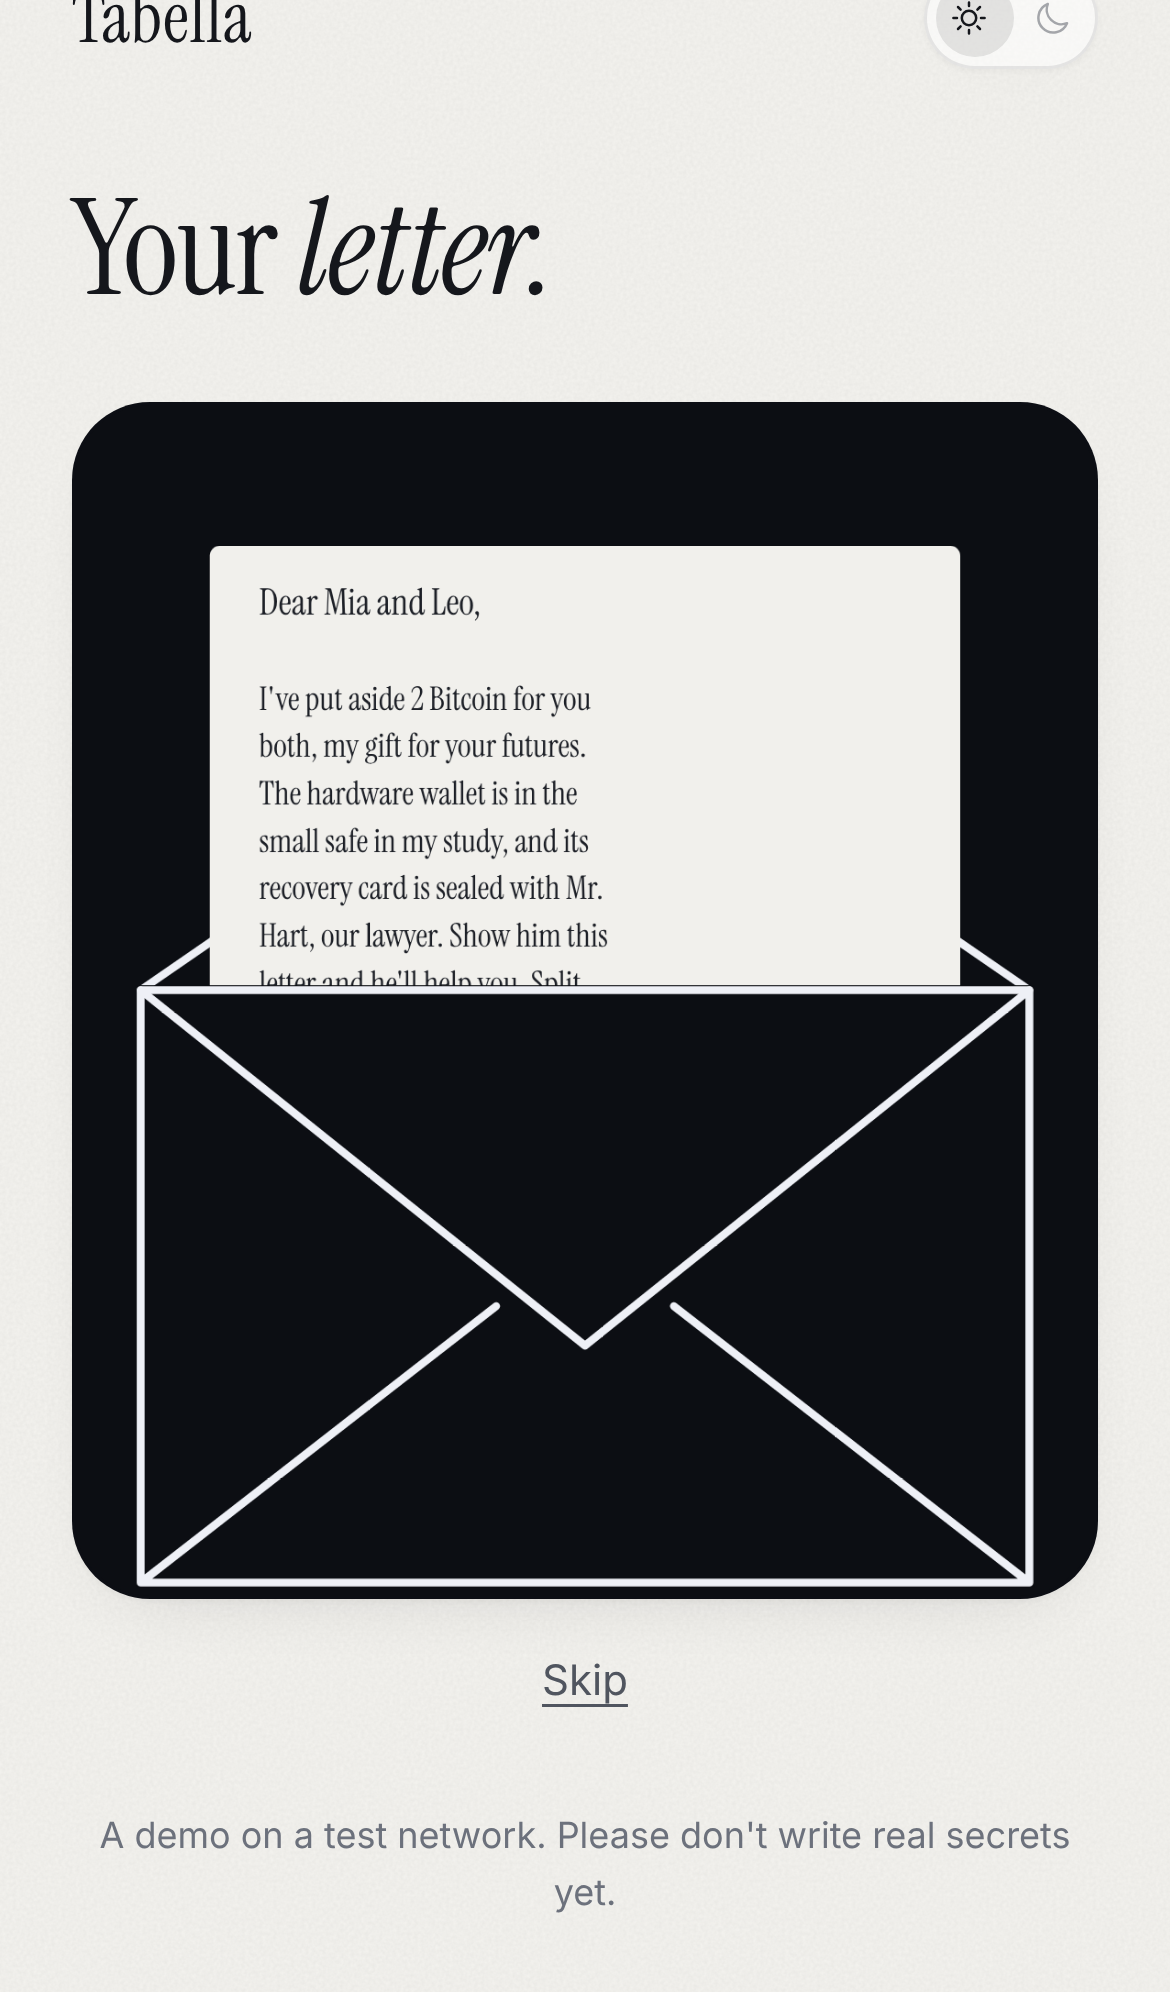
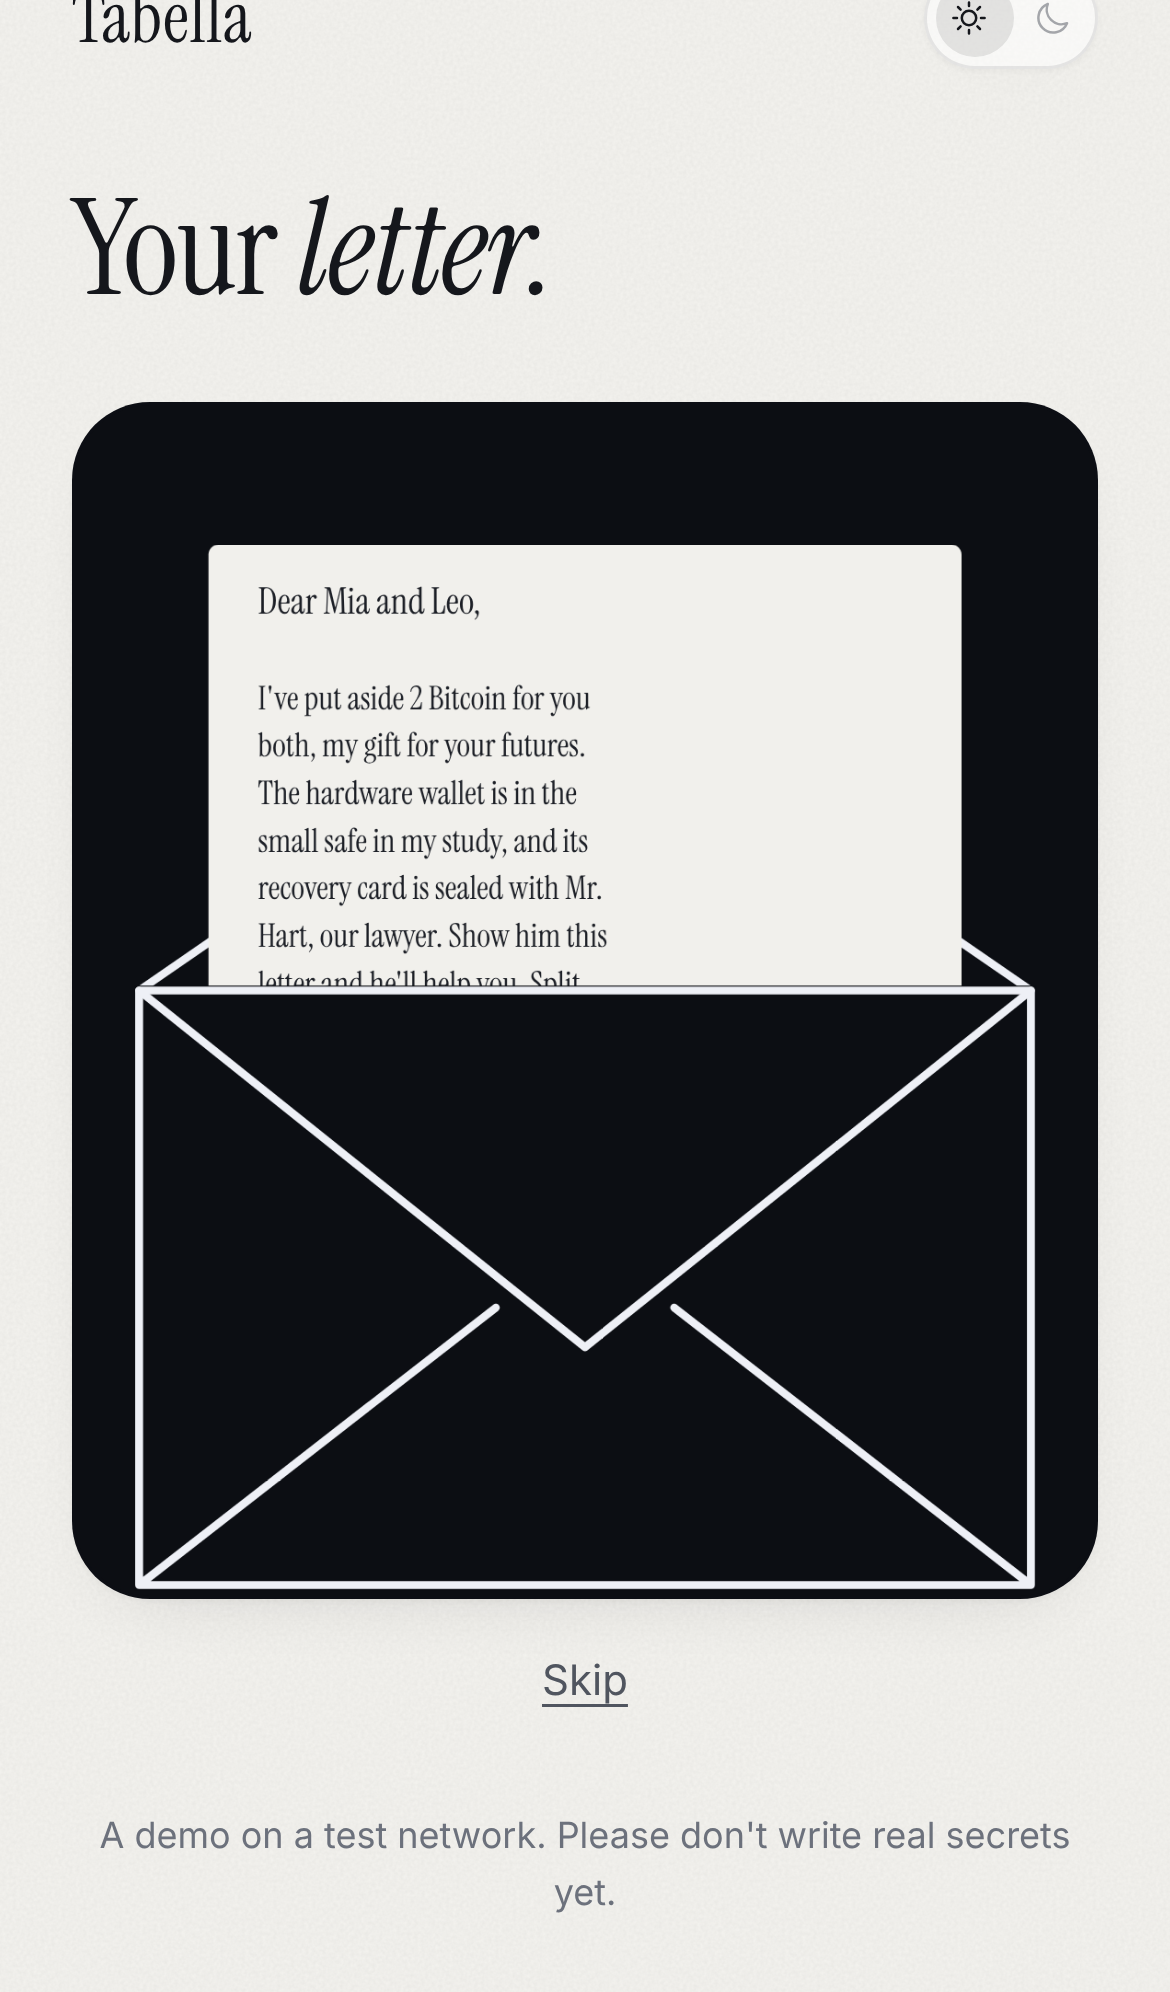
Scenes: no stray sheet under the sealed envelope, the whole letter is readable in the final zoom
Claude-Session: https://claude.ai/code/session_01TE8sAU6P4AZLuUHi32mejA

diff --git a/app/src/landing/stories.tsx b/app/src/landing/stories.tsx
@@ -121,26 +121,13 @@ function Calendar() {
 }
 
 /** An envelope: the letter slides in, the flap closes, the seal is pressed. */
-function SealScene({ bare = false }: { bare?: boolean }) {
+function SealScene() {
   return (
     <g transform="translate(180 230)">
       {/* the letter sliding down into the envelope (it ends hidden behind the front) */}
       <A a="letter-in" d={0.3} dur={1.1} ease="ease-in-out" fill="backwards">
-        <rect className="letter-sheet" x="104" y="100" width="152" height="134" rx="2" />
-        {!bare && (
-          <>
-        <text className="hand" x="114" y="114.0" fontSize="7.4">Dear Mia and Leo,</text>
-        <text className="hand" x="114" y="133.2" fontSize="6.6">I've put aside 2 Bitcoin for you</text>
-        <text className="hand" x="114" y="142.8" fontSize="6.6">both, my gift for your futures.</text>
-        <text className="hand" x="114" y="152.4" fontSize="6.6">The hardware wallet is in the small</text>
-        <text className="hand" x="114" y="162.0" fontSize="6.6">safe in my study, and its recovery</text>
-        <text className="hand" x="114" y="171.6" fontSize="6.6">card is sealed with Mr. Hart, our</text>
-        <text className="hand" x="114" y="181.2" fontSize="6.6">lawyer. Show him this letter and</text>
-        <text className="hand" x="114" y="190.8" fontSize="6.6">he'll help you. Split it fairly</text>
-        <text className="hand" x="114" y="200.4" fontSize="6.6">and look after each other.</text>
-        <text className="hand" x="114" y="219.6" fontSize="6.6">All my love, Alex.</text>
-          </>
-        )}
+        <rect className="letter-sheet" x="-60" y="-42" width="120" height="94" rx="2" />
+        <path className="ln" d="M-42 -24 H42 M-42 -10 H42 M-42 4 H42 M-42 18 H12" />
       </A>
       <rect className="cover" x="-91" y="-49" width="182" height="109" />
       <path className="sk" d="M-90 -50 H90 V60 H-90 Z M-90 60 L-18 6 M90 60 L18 6" />
@@ -245,22 +232,27 @@ export function sheetLines(text: string, width = 34, max = 12): string[] {
 /** The last scene: the seal cracks, the flap lifts, the letter slides out, and the camera comes in until it can be read. */
 export function EnvelopeOpen({ lines, dur = 2.6, delay = 4.0 }: { lines: string[]; dur?: number; delay?: number }) {
   return (
-    <A a="zoom-read" d={delay} dur={dur} origin="180px 168px" ease="cubic-bezier(0.45, 0, 0.2, 1)" fill="backwards" className="read">
+    <A a="zoom-read" d={delay} dur={dur} origin="180px 96px" ease="cubic-bezier(0.45, 0, 0.2, 1)" fill="backwards" className="read">
       {/* the open flap, behind the letter */}
       <A a="flap-open" d={1.3} dur={0.6} fill="backwards">
         <path className="sk" d="M90 190 L180 128 L270 190" />
       </A>
-      {/* the letter, sliding out */}
+      {/* the letter, sliding out (nothing of it shows below the envelope while it starts inside) */}
+      <clipPath id="tbl-envelope-clip">
+        <rect x="0" y="0" width="360" height="311" />
+      </clipPath>
+      <g clipPath="url(#tbl-envelope-clip)">
       <A a="letter-out" d={1.7} dur={1.5} ease="cubic-bezier(0.25, 0.6, 0.3, 1)" fill="backwards">
-        <rect className="letter-sheet" x="104" y="100" width="152" height="134" rx="2" />
+        <rect className="letter-sheet" x="104" y="46" width="152" height="134" rx="2" />
         {lines.map((l, i) =>
           l ? (
-            <text key={i} className="hand" x="114" y={114 + i * 9.6} fontSize={i === 0 ? 7.4 : 6.6}>
+            <text key={i} className="hand" x="114" y={61 + i * 9.6} fontSize={i === 0 ? 7.4 : 6.6}>
               {l}
             </text>
           ) : null,
         )}
       </A>
+      </g>
       {/* the front of the envelope */}
       <rect className="cover" x="89" y="189" width="182" height="122" />
       <path className="sk" d="M90 190 H270 V310 H90 Z M90 310 L162 254 M270 310 L198 254" />
@@ -284,7 +276,7 @@ const SCENES: Record<StoryId, () => JSX.Element> = { desk: Desk, chairs: Chairs,
 
 /** One scene, on its own transparent canvas (the intro puts it on the ink). */
 export function Story({ id, still = false, lines }: { id: StoryId; still?: boolean; lines?: string[] }) {
-  const Scene = id === "open" && lines ? () => <EnvelopeOpen lines={lines} /> : id === "seal" && lines ? () => <SealScene bare /> : SCENES[id];
+  const Scene = id === "open" && lines ? () => <EnvelopeOpen lines={lines} /> : id === "seal" && lines ? () => <SealScene /> : SCENES[id];
   return (
     <svg className={`story ${still ? "still" : ""}`} viewBox="0 0 360 420" role="img" aria-label={STORY_ALT[id]} preserveAspectRatio="xMidYMid meet">
       <Scene />

diff --git a/app/src/styles.css b/app/src/styles.css
@@ -519,6 +519,7 @@ a.btn.big { padding: 22px 38px; font-size: 19px; min-height: 66px; }
 .story .big { font-family: var(--serif); font-size: 80px; fill: #eef0f6; }
 .story .hand { font-family: var(--serif); fill: #1c1f26; }
 .story .letter-sheet { fill: #f1f0ec; stroke: none; }
+.story .ln { fill: none; stroke: #a3a5ad; stroke-width: 1.3; stroke-linecap: round; }
 .story .stampT { font-family: var(--serif); font-size: 15px; fill: #f0c9cd; }
 .story .an { animation-duration: 0.8s; animation-timing-function: cubic-bezier(0.22, 1, 0.36, 1); animation-fill-mode: backwards; }
 /* The finished picture is what is drawn; each animation only says where it starts from. */
@@ -534,12 +535,12 @@ a.btn.big { padding: 22px 38px; font-size: 19px; min-height: 66px; }
 @keyframes settle-turn-slow { from { transform: rotate(-270deg); } }
 @keyframes orbit { from { transform: rotate(-360deg); } }
 @keyframes sun-up { from { transform: translate3d(0, 18px, 0); opacity: 0.3; } }
-@keyframes letter-out { from { transform: translate3d(0, 112px, 0); } }
+@keyframes letter-out { from { transform: translate3d(0, 150px, 0); } }
 @keyframes letter-in { from { transform: translate3d(0, -112px, 0); } }
 @keyframes zoom-read { from { transform: scale(1); } }
 @keyframes seal-halves { from { opacity: 1; transform: translate3d(0, 0, 0) rotate(0deg); } }
 @keyframes flap-open { from { opacity: 0; } }
-.story .read { transform: scale(1.9); }
+.story .read { transform: scale(1.8); }
 .story .halfL { opacity: 0; transform: translate3d(-20px, 10px, 0) rotate(-12deg); }
 .story .halfR { opacity: 0; transform: translate3d(20px, 10px, 0) rotate(12deg); }
 .story.still .an { animation: none !important; }
